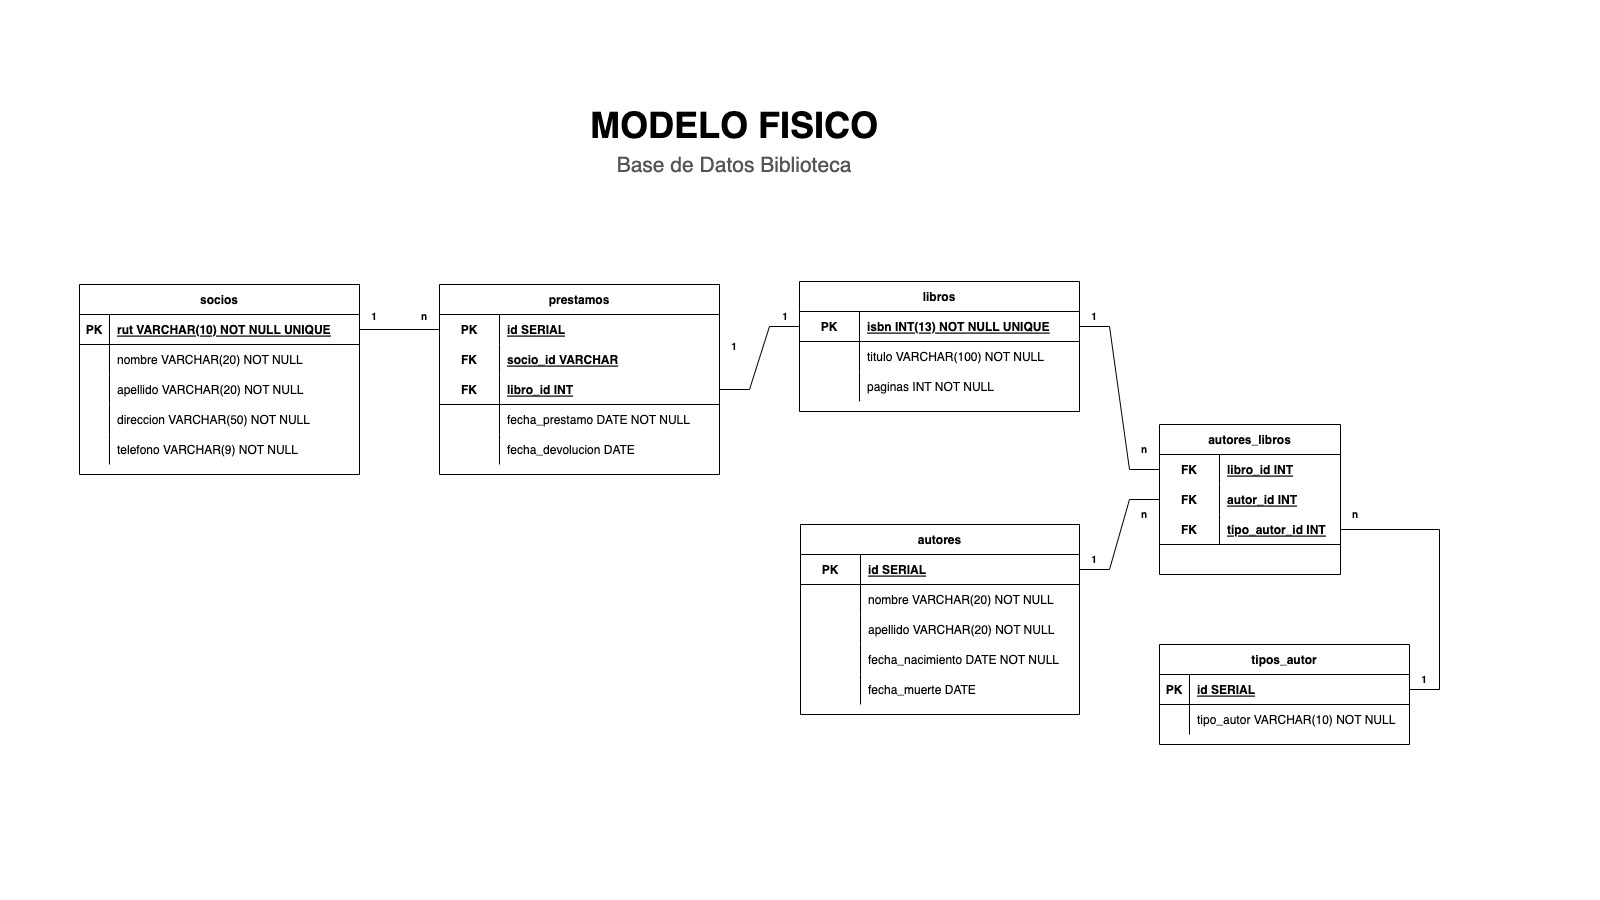
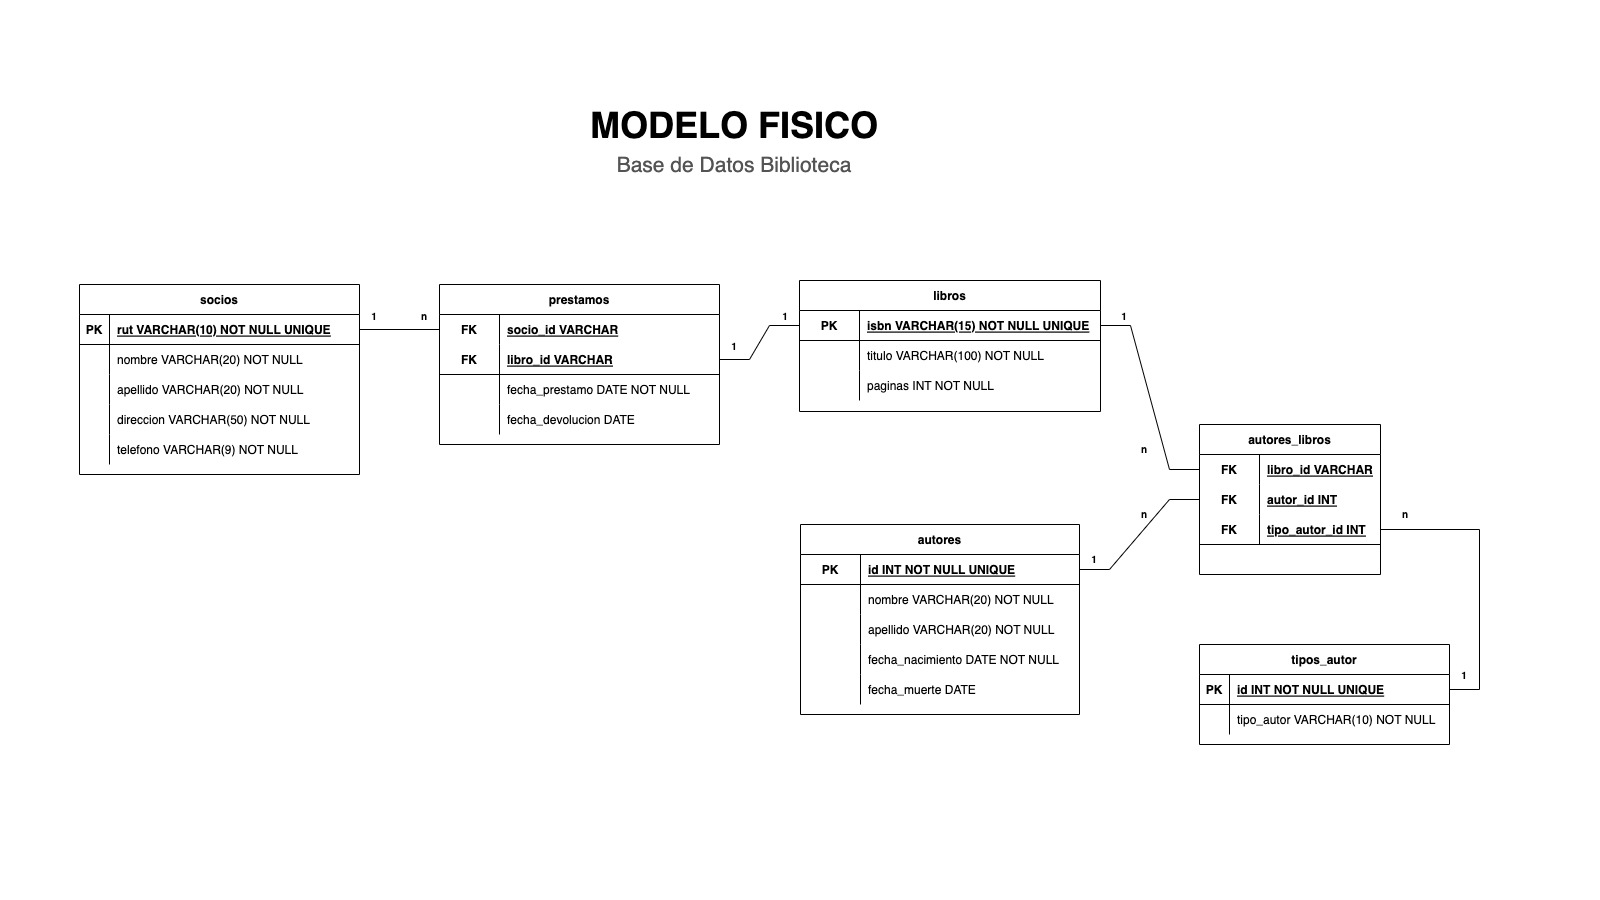
acutalizados modelos y datos insertados

diff --git a/desafiosEvaluados/biblioteca/readme.md b/desafiosEvaluados/biblioteca/readme.md
@@ -13,6 +13,74 @@
 
 1. Crear el modelo en una base de datos llamada biblioteca, considerando las tablas definidas y sus atributos. (2 puntos).
 
+```
+
+-- Primero se crea la base de datos
+CREATE DATABASE biblioteca;
+
+-- Luego nos movemos hacia la base de datos creada
+\c biblioteca
+
+-- Se crea la tabla socios
+CREATE TABLE socios(
+  rut VARCHAR(10) NOT NULL UNIQUE,
+  nombre VARCHAR(20) NOT NULL,
+  apellido VARCHAR(20) NOT NULL,
+  direccion VARCHAR(50) NOT NULL,
+  telefono VARCHAR(9) NOT NULL,
+  PRIMARY KEY(rut)
+);
+
+-- Se crea la tabla libros
+CREATE TABLE libros(
+  isbn INT(13) NOT NULL UNIQUE,
+  titulo VARCHAR(100) NOT NULL,
+  paginas INT NOT NULL,
+  PRIMARY KEY (isbn)
+);
+
+-- Se crea la tabla préstamos
+CREATE TABLE prestamos(
+  id SERIAL,
+  socio_id VARCHAR,
+  libro_id INT,
+  fecha_prestamo DATE NOT NULL,
+  fecha_devolucion DATE NOT NULL,
+  PRIMARY KEY id,
+  FOREIGN KEY socio_id REFERENCES socios(rut),
+  FOREIGN KEY libro_id REFERENCES libros(isbn)
+);
+
+-- Se crea la tabla autores
+CREATE TABLE autores(
+  id SERIAL,
+  nombre VARCHAR(20) NOT NULL,
+  apellido VARCHAR(20) NOT NULL,
+  fecha_nacimiento DATE NOT NULL,
+  fecha_muerte DATE,
+  PRIMARY KEY(id)
+);
+
+-- Se crea la tabla tipos_autor
+CREATE TABLE tipos_autor(
+  id SERIAL,
+  tipo_autor VARCHAR(10) NOT NULL,
+  PRIMARY KEY(id)
+);
+
+-- Se crea la tabla autores_libros
+CREATE TABLE autores_libros(
+  libro_id INT,
+  autor_id INT,
+  tipo_autor INT,
+  FOREIGN KEY libro_id REFERENCES libros(isbn),
+  FOREIGN KEY autor_id REFERENCES autores(id),
+  FOREIGN KEY tipo_autor REFERENCES tipos_autor(id),
+);
+
+
+```
+
 2. Se deben insertar los registros en las tablas correspondientes (1 punto).
 3. Realizar las siguientes consultas:
    a. Mostrar todos los libros que posean menos de 300 páginas. (0.5 puntos)
